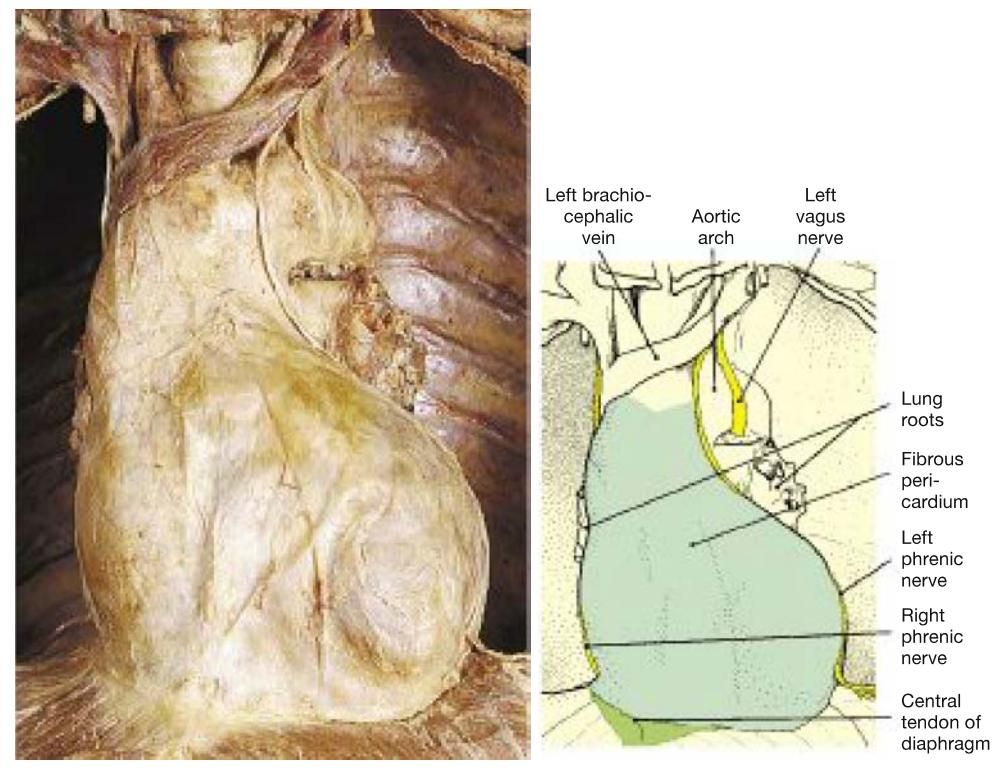
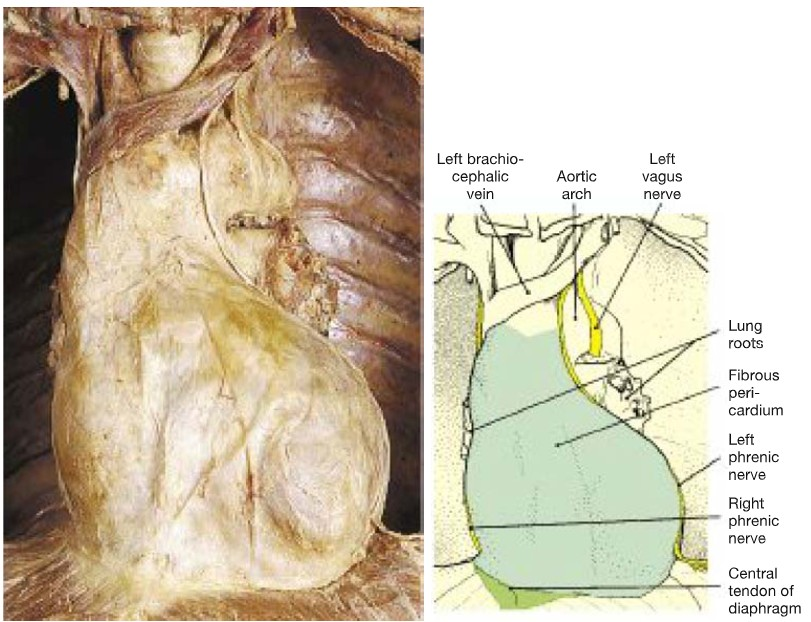
1

diff --git a/books/ecg/ECGs_Made_Easy/chapters/chapter-01/chapter-01.md b/books/ecg/ECGs_Made_Easy/chapters/chapter-01/chapter-01.md
@@ -140,7 +140,7 @@
 - **Phases:** Atrial diastole (passive filling, 70%) → atrial systole (atrial kick, 10–30%) → ventricular systole (isovolumetric contraction then ejection) → ventricular diastole (isovolumetric relaxation then passive filling).
 - **Right heart low‑pressure:** RA pressure 2–6 mmHg, RV 0–8 (diastole)/15–25 (systole).
 - **Left heart high‑pressure:** LA pressure 8–12 mmHg, LV 8–12 (diastole)/110–130 (systole).
-- **Blood pressure:** BP = CO × peripheral resistance. CO = SV × HR. Normal CO ~5 L/min (SV~70 mL, HR~70 bpm). Ejection fraction (normal 50–65%) = (SV/EDV)×100.
+- **Blood pressure:** BP = CO × peripheral resistance. CO = SV × HR. Normal CO ~ 5 L/min (SV~ 70 mL, HR~70 bpm). Ejection fraction (normal 50–65%) = (SV/EDV)×100.
 - **Frank‑Starling law:** Increased preload (end‑diastolic volume) → increased stretch → increased contraction force → increased SV (within limits). Overstretch → failure.
 - **Afterload** = ventricular wall tension during ejection (affected by arterial BP, distensibility, resistance). Increased afterload ↓SV.
 - **HR effects:** ↑HR shortens diastole → less coronary filling time → risk of ischemia, ↓CO if filling inadequate. Hyperkalemia → flaccid, slow; hypercalcemia → spastic contraction.
@@ -162,7 +162,7 @@ The adult heart is about 5 inches (12 cm) long, 3.5 inches (9 cm) wide, and 2.5 
 
 <span id="fig-1-2"></span>**FIGURE 1.2** Appearance of the heart. This photograph shows a living human heart prepared for transplantation into a patient. Note its size relative to the hands that are holding it. *(From Patton KT, Thibodeau GA: Anatomy & physiology, ed 9, St. Louis, 2016, Mosby.)*
 
-![](_page_2_Picture_4.jpeg)
+![](_page_2_Picture_10.jpeg)
 
 </div></details>
 
@@ -176,11 +176,11 @@ The heart's left side (i.e., left lateral surface) faces the left lung and is ma
 
 <span id="fig-1-3"></span>**FIGURE 1.3** The base of the heart. *(From Drake R, Vogl AW, Mitchell AWM: Gray’s anatomy for students, ed 3, New York, 2015, Churchill Livingstone.)*
 
-![](_page_2_Picture_12.jpeg)
+![](_page_2_Picture_4.jpeg)
 
 <span id="fig-1-4"></span>**FIGURE 1.4** The anterior surface of the heart. *(From Drake R, Vogl AW, Mitchell AWM: Gray’s anatomy for students, ed 3, New York, 2015, Churchill Livingstone.)*
 
-![](_page_2_Picture_16.jpeg)
+![](_page_2_Picture_12.jpeg)
 
 <span id="fig-1-5"></span>**FIGURE 1.5** The inferior surface of the heart. The inferior part of the fibrous pericardium has been removed with the diaphragm. *(From Gosling JA: Human anatomy: color atlas and text, ed 4, London, 2002, Mosby.)*
 
@@ -238,7 +238,7 @@ The *myocardium* (middle layer) is a thick, muscular layer that consists of card
 
 <span id="fig-1-8"></span>**FIGURE 1.8** The pericardial sac is composed of two layers separated by a narrow fluid‑filled space. The visceral pericardium (epicardium) is attached directly to the heart’s surface, and the parietal pericardium forms the outer layer of the sac. *(From Copstead‑Kirkhorn L, Banasik JL: Pathophysiology, ed 5, Philadelphia, 2013, Elsevier.)*
 
-![](_page_5_Picture_3.jpeg)
+![](_page_4_Picture_11.jpeg)
 
 The heart's outermost layer is called the *epicardium*. The epicardium is continuous with the inner lining of the pericardium at the heart's apex. The epicardium contains blood capillaries, lymph capillaries, nerve fibers, and fat. The main coronary arteries lie on the epicardial surface of the heart. They feed this area first before entering the myocardium and supplying the heart's inner layers with oxygenated blood. *Ischemia* is a decreased supply of oxygenated blood to a body part or organ. The heart's subendocardial area is at the greatest risk of ischemia because this area has a high demand for oxygen and it is fed by the most distal branches of the coronary arteries.
 
@@ -273,7 +273,7 @@ There are certain places in the cell membrane where sodium (Na<sup>+</sup>), pot
 
 <span id="fig-1-9"></span>**FIGURE 1.9** Cardiac muscle fiber. Unlike other types of muscle fibers, the cardiac muscle fiber is typically branched and forms junctions, called intercalated disks, with adjacent cardiac muscle fibers. *(From Patton KT, Thibodeau GA: Anthony’s textbook of anatomy & physiology, ed 20, St. Louis, 2013, Mosby.)*
 
-![](_page_5_Figure_11.jpeg)
+![](_page_5_Picture_3.jpeg)
 
 <details class="med-details"><summary>
 
@@ -459,7 +459,7 @@ The three major epicardial coronary arteries include the left anterior descendin
 
 <span id="fig-1-17"></span>**FIGURE 1.17** Coronary arteries supplying the heart. The right coronary artery supplies the right atrium, ventricle, and posterior aspect of the left ventricle in most individuals. The left coronary artery divides into the left anterior descending and circumflex arteries, which perfuse the left ventricle. **A,** Anterior view. **B,** Posterior view. *(From Copstead‑Kirkhorn L, Banasik JL: Pathophysiology, ed 5, Philadelphia, 2013, Elsevier.)*
 
-![](_page_12_Figure_3.jpeg)
+![](_page_12_Picture_2.jpeg)
 
 #### Right Coronary Artery
 The RCA originates from the right side of the aorta ([Fig. 1.17](#fig-1-17)). It travels along the groove between the right atrium and right ventricle. A branch of the RCA supplies the following structures:
@@ -602,7 +602,7 @@ The myocardium is able to produce its own electrical impulses without signals fr
 
 <span id="fig-1-19"></span>**FIGURE 1.19** Schematic showing the sympathetic and parasympathetic pathways. Sympathetic pathways are shown in *red* and parasympathetic pathways in *blue*. *(From Koeppen BM, Stanton BA: Berne & Levy physiology, ed 6, St. Louis, 2010, Mosby.)*
 
-![](_page_16_Figure_10.jpeg)
+![](_page_15_Figure_12.jpeg)
 
 <details class="med-details"><summary>
 
@@ -720,7 +720,7 @@ The right and left sides of the heart are separated by an internal wall of conne
 
 <span id="fig-1-22"></span>**FIGURE 1.22** The heart has two pumps. *(From Drake R, Vogl AW, Mitchell AWM: Gray’s anatomy for students, ed 3, New York, 2015, Churchill Livingstone.)*
 
-![](_page_18_Figure_24.jpeg)
+![](_page_18_Picture_24.jpeg)
 
 The *right side* of the heart is a low‑pressure system whose job is to pump unoxygenated blood from the body to and through the lungs to the left side of the heart. This is called the *pulmonary circulation*. The pressure within the right atrium is normally between 2 and 6 mmHg. The pressure within the right ventricle is normally between 0 and 8 mmHg when the chamber is at rest (diastole) and between 15 and 25 mmHg during contraction (systole).
 

diff --git a/books/ecg/ECGs_Made_Easy/chapters/chapter-03/chapter-03.md b/books/ecg/ECGs_Made_Easy/chapters/chapter-03/chapter-03.md
@@ -274,7 +274,7 @@ Look at the P waves on the rhythm strip, evaluate the P‑P intervals for regula
 
 <span id="fig-3-4"></span>**FIGURE 3.4** Sinus tachycardia at 125 beats/min with ST‑segment depression.
 
-![](_page_5_Figure_2.jpeg)
+![](_page_4_Figure_2.jpeg)
 
 <span id="table-3-4"></span><details class="med-details"><summary>
 
@@ -975,7 +975,7 @@ Interpretation: Sinus tachycardia at 107 beats/min with a wide QRS and deeply in
 
 **33. Fig. 3.15**
 
-![](_page_13_Figure_6.jpeg)
+![](_page_13_Figure_2.jpeg)
 
 Rhythm: __________ Rate: __________ P waves: __________  
 PR interval: __________ QRS duration: __________ QT interval: __________  
@@ -1020,7 +1020,7 @@ Interpretation: Sinus arrhythmia at 100 beats/min
 
 **35. Fig. 3.17**
 
-![](_page_14_Figure_2.jpeg)
+![](_page_14_Figure_0.jpeg)
 
 Rhythm: __________ Rate: __________ P waves: __________  
 PR interval: __________ QRS duration: __________ QT interval: __________  
@@ -1174,7 +1174,7 @@ Interpretation: Sinus rhythm at 65 beats/min with biphasic P waves and STE
 
 **42. Fig. 3.24** – This rhythm strip is from a 29‑year‑old woman with a kidney stone.
 
-![](_page_16_Figure_8.jpeg)
+![](_page_16_Figure_4.jpeg)
 
 Rhythm: __________ Rate: __________ P waves: __________  
 PR interval: __________ QRS duration: __________ QT interval: __________  
@@ -1196,7 +1196,7 @@ Interpretation: Sinus tachycardia at 103 beats/min; inverted T waves
 
 **43. Fig. 3.25** (From Aehlert B: ECG study cards, St. Louis, 2004, Mosby.)
 
-![](_page_17_Figure_2.jpeg)
+![](_page_16_Figure_8.jpeg)
 
 Rhythm: __________ Rate: __________ P waves: __________  
 PR interval: __________ QRS duration: __________ QT interval: __________  
@@ -1218,7 +1218,7 @@ Interpretation: Sinus bradycardia at 25 beats/min with a prolonged PR interval a
 
 **44. Fig. 3.26** – This rhythm strip is from a 79‑year‑old woman with epistaxis. Her blood pressure is 222/118 mm Hg.
 
-![](_page_17_Figure_5.jpeg)
+![](_page_17_Figure_2.jpeg)
 
 Rhythm: __________ Rate: __________ P waves: __________  
 PR interval: __________ QRS duration: __________ QT interval: __________  
@@ -1240,7 +1240,7 @@ Interpretation: Sinus tachycardia at 125 beats/min with a wide QRS and ST‑segm
 
 **45. Fig. 3.27** – This rhythm strip is from a 62‑year‑old man complaining of chest pain.
 
-![](_page_17_Figure_9.jpeg)
+![](_page_17_Figure_5.jpeg)
 
 Rhythm: __________ Rate: __________ P waves: __________  
 PR interval: __________ QRS duration: __________ QT interval: __________  
@@ -1262,7 +1262,7 @@ Interpretation: Sinus rhythm at 94 beats/min with STE
 
 **46. Fig. 3.28** – This rhythm strip is from an 8‑month‑old infant after a seizure.
 
-![](_page_18_Figure_2.jpeg)
+![](_page_17_Figure_9.jpeg)
 
 Rhythm: __________ Rate: __________ P waves: __________  
 PR interval: __________ QRS duration: __________ QT interval: __________  
@@ -1284,7 +1284,7 @@ Interpretation: Sinus rhythm at 150 beats/min (rate within normal limits for age
 
 **47. Fig. 3.29** – This rhythm strip is from a 33‑year‑old woman complaining of abdominal pain.
 
-![](_page_18_Figure_6.jpeg)
+![](_page_18_Figure_2.jpeg)
 
 Rhythm: __________ Rate: __________ P waves: __________  
 PR interval: __________ QRS duration: __________ QT interval: __________  
@@ -1306,7 +1306,7 @@ Interpretation: Sinus arrhythmia at 80 beats/min
 
 **48. Fig. 3.30**
 
-![](_page_18_Figure_12.jpeg)
+![](_page_18_Figure_6.jpeg)
 
 Rhythm: __________ Rate: __________ P waves: __________  
 PR interval: __________ QRS duration: __________ QT interval: __________  
@@ -1328,7 +1328,7 @@ Interpretation: Sinus rhythm at 68 beats/min with a prolonged PR interval and ST
 
 **49. Fig. 3.31**
 
-![](_page_19_Figure_2.jpeg)
+![](_page_18_Figure_12.jpeg)
 
 Rhythm: __________ Rate: __________ P waves: __________  
 PR interval: __________ QRS duration: __________ QT interval: __________  
@@ -1350,7 +1350,7 @@ Interpretation: Sinus rhythm at 97 beats/min with STE
 
 **50. Fig. 3.32** – This rhythm strip is from a 37‑year‑old asymptomatic man.
 
-![](_page_19_Figure_8.jpeg)
+![](_page_19_Figure_2.jpeg)
 
 Rhythm: __________ Rate: __________ P waves: __________  
 PR interval: __________ QRS duration: __________ QT interval: __________  
@@ -1372,7 +1372,7 @@ Interpretation: Sinus bradyarrhythmia at 50 beats/min
 
 **51. Fig. 3.33** (From Aehlert B: ECG study cards, St. Louis, 2004, Mosby.)
 
-![](_page_19_Figure_14.jpeg)
+![](_page_19_Figure_8.jpeg)
 
 Rhythm: __________ Rate: __________ P waves: __________  
 PR interval: __________ QRS duration: __________ QT interval: __________  
@@ -1394,7 +1394,7 @@ Interpretation: Sinus tachycardia at 115 beats/min with ST‑segment depression
 
 **52. Fig. 3.34** – This rhythm strip is from a 44‑year‑old construction worker with a sudden onset of chest pressure.
 
-![](_page_20_Figure_2.jpeg)
+![](_page_19_Figure_14.jpeg)
 
 Rhythm: __________ Rate: __________ P waves: __________  
 PR interval: __________ QRS duration: __________ QT interval: __________  
@@ -1416,7 +1416,7 @@ Interpretation: Sinus arrhythmia at 70 beats/min with STE
 
 **53. Fig. 3.35**
 
-![](_page_20_Figure_6.jpeg)
+![](_page_20_Figure_2.jpeg)
 
 Rhythm: __________ Rate: __________ P waves: __________  
 PR interval: __________ QRS duration: __________ QT interval: __________  

diff --git a/books/ecg/ECGs_Made_Easy/chapters/chapter-02/chapter-02.md b/books/ecg/ECGs_Made_Easy/chapters/chapter-02/chapter-02.md
@@ -625,7 +625,7 @@ One end of a monitoring cable, also called a *lead wire*, is attached to the ele
 
 <span id="fig-2-15"></span>**FIGURE 2.15** Electrocardiogram electrodes. *(Courtesy of Bruce R. Shade, EMT‑P, EMS‑I, AAS.)*
 
-![](_page_14_Figure_2.jpeg)
+![](_page_14_Picture_2.jpeg)
 
 </div></details>
 
@@ -757,7 +757,7 @@ The chest leads are identified as V<sub>1</sub>, V<sub>2</sub>, V<sub>3</sub>, V
 
 <span id="fig-2-17"></span>**FIGURE 2.17** Chest (precordial) leads V<sub>1</sub> through V<sub>6</sub>. *(From Copstead‑Kirkhorn LE, Banasik JL: Pathophysiology, ed 5, St. Louis, 2013, Saunders.)*
 
-![](_page_16_Figure_14.jpeg)
+![](_page_16_Picture_16.jpeg)
 
 <span id="table-2-4"></span><details class="med-details"><summary>
 
@@ -804,7 +804,7 @@ On a standard 12‑lead ECG, no leads look directly at the posterior surface of 
 
 <span id="fig-2-19"></span>**FIGURE 2.19** Electrode locations for left posterior chest lead placement. *(From Hedges JR: Roberts and Hedges’ clinical procedures in emergency medicine, ed 6, Philadelphia, 2014, Saunders.)*
 
-![](_page_17_Figure_7.jpeg)
+![](_page_17_Picture_7.jpeg)
 
 </div></details>
 
@@ -830,7 +830,7 @@ Lead MCL<sub>6</sub> is a variation of the chest lead V<sub>6</sub> and views th
 
 <span id="fig-2-20"></span>**FIGURE 2.20** Electrode locations for alternative electrocardiogram leads. MCL, Modified chest lead. *(From Hedges JR: Roberts and Hedges’ clinical procedures in emergency medicine, ed 6, Philadelphia, 2014, Saunders.)*
 
-![](_page_18_Figure_2.jpeg)
+![](_page_18_Picture_2.jpeg)
 
 <details class="med-details"><summary>
 
@@ -871,11 +871,13 @@ Newer Holter monitors permit extended ECG monitoring, typically for 7 to 14 days
 
 <span id="fig-2-21"></span>**FIGURE 2.21** A Holter monitor is an example of an ambulatory electrocardiographic monitor. *(From Bonewit‑West K: Clinical procedures for medical assistants, ed 9, St. Louis, 2015, Saunders.)*
 
-![](_page_19_Figure_2.jpeg)
+![](_page_19_Picture_2.jpeg)
+  
+![](_page_19_Picture_3.jpeg)
 
 <span id="fig-2-22"></span>**FIGURE 2.22** Sample patch‑based recording system that allows both acquisition and storage of a single‑lead electrocardiogram for 7 to 14 days. *(From Krahn AD, Yee R, Skanes AC, Klein GJ: Cardiac monitoring: Short and long‑term recording. In DP Zipes & J Jalife (Eds.): Cardiac electrophysiology: from cell to bedside, ed 6, Philadelphia, 2014, Saunders.)*
 
-![](_page_19_Figure_5.jpeg)
+![](_page_19_Picture_5.jpeg) ![](_page_19_Picture_6.jpeg)
 
 </div></details>
 
@@ -1196,7 +1198,7 @@ The PRI is measured from the point where the P wave leaves the baseline to the b
 
 <span id="fig-2-38"></span>**FIGURE 2.38** The PR interval is measured from the onset of the P wave to the onset of the QRS complex.
 
-![](_page_28_Figure_5.jpeg)
+![](_page_27_Figure_14.jpeg)
 
 <span id="box-2-5"></span><details class="med-details"><summary>
 
@@ -1311,7 +1313,7 @@ You can also determine regularity by counting the small squares between interval
 
 <span id="fig-2-42"></span>**FIGURE 2.42** **A,** Establishing ventricular regularity with calipers. **B,** Establishing ventricular regularity with paper and pencil. *(From Sole, ML, Goldenberg Klein D, Moseley MJ: Introduction to critical care nursing, ed 5, Philadelphia, 2008, Saunders.)*
 
-![](_page_30_Figure_2.jpeg)
+![](_page_30_Picture_2.jpeg) ![](_page_30_Picture_3.jpeg)
 
 </div></details>
 

diff --git a/books/ecg/ECGs_Made_Easy/chapters/chapter-04/chapter-04.md b/books/ecg/ECGs_Made_Easy/chapters/chapter-04/chapter-04.md
@@ -756,7 +756,7 @@ With atrial flutter, an irritable focus within the atrium typically depolarizes 
 
 <span id="fig-4-19"></span>**FIGURE 4.19** Atrial flutter. F, Flutter wave; SA, sinoatrial.
 
-![](_page_15_Figure_13.jpeg)
+![](_page_15_Picture_13.jpeg)
 
 <span id="table-4-7"></span><details class="med-details"><summary>
 
